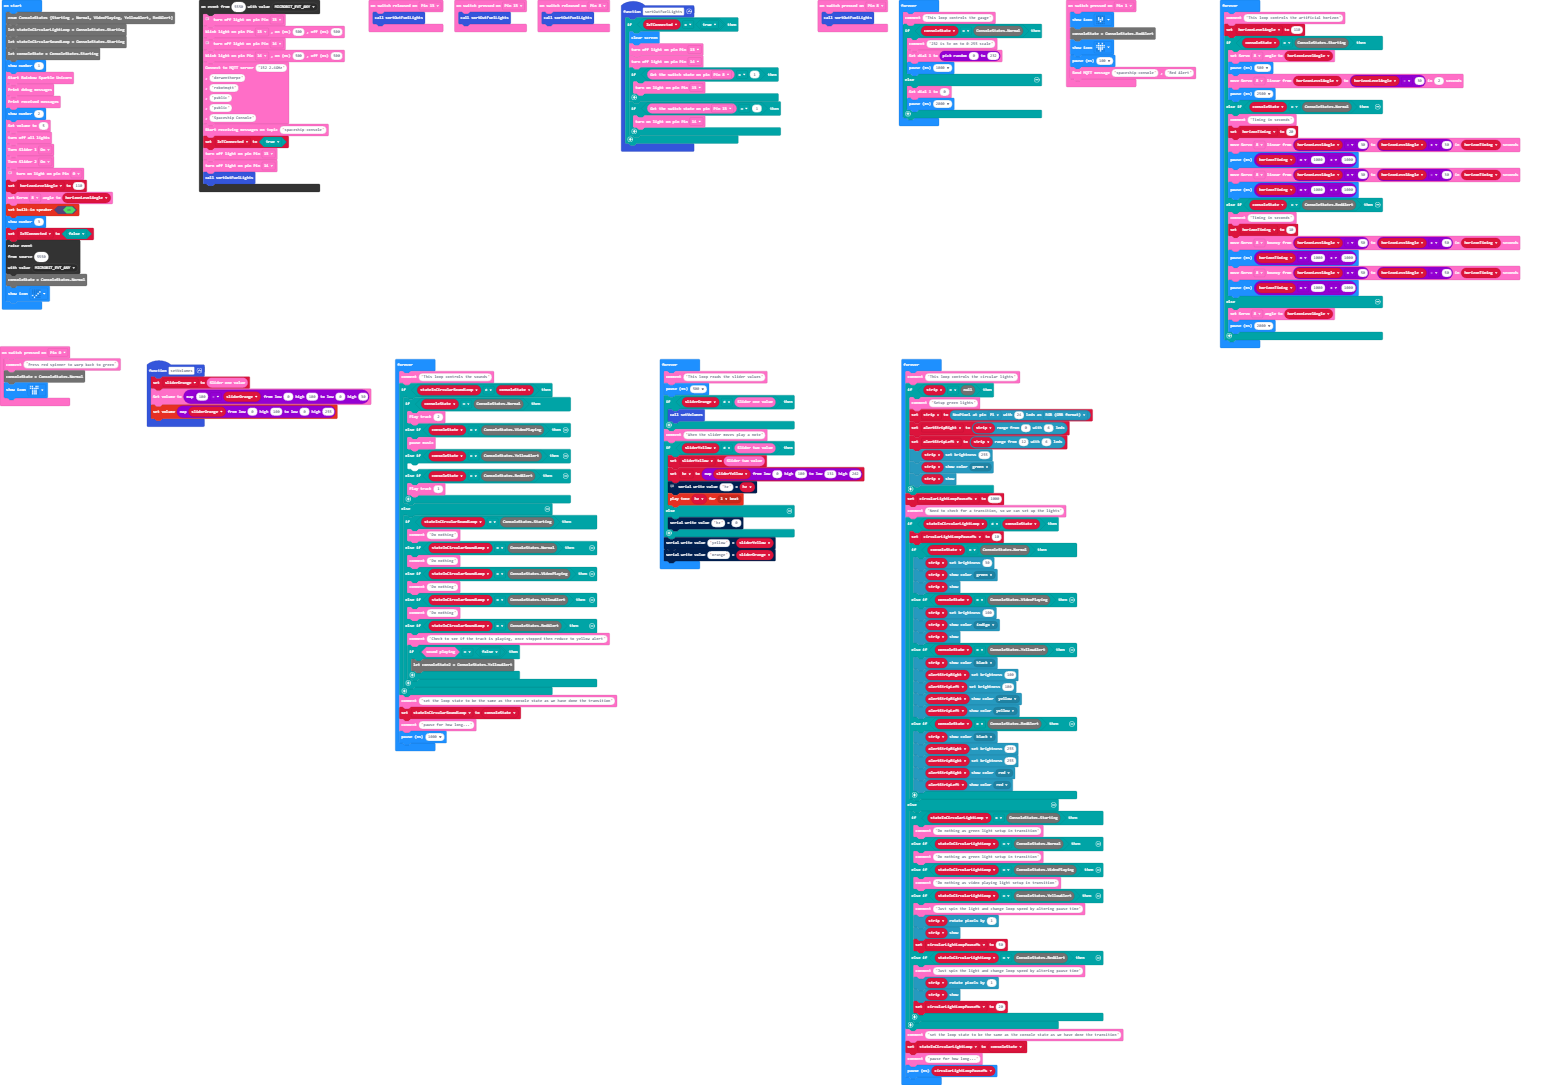
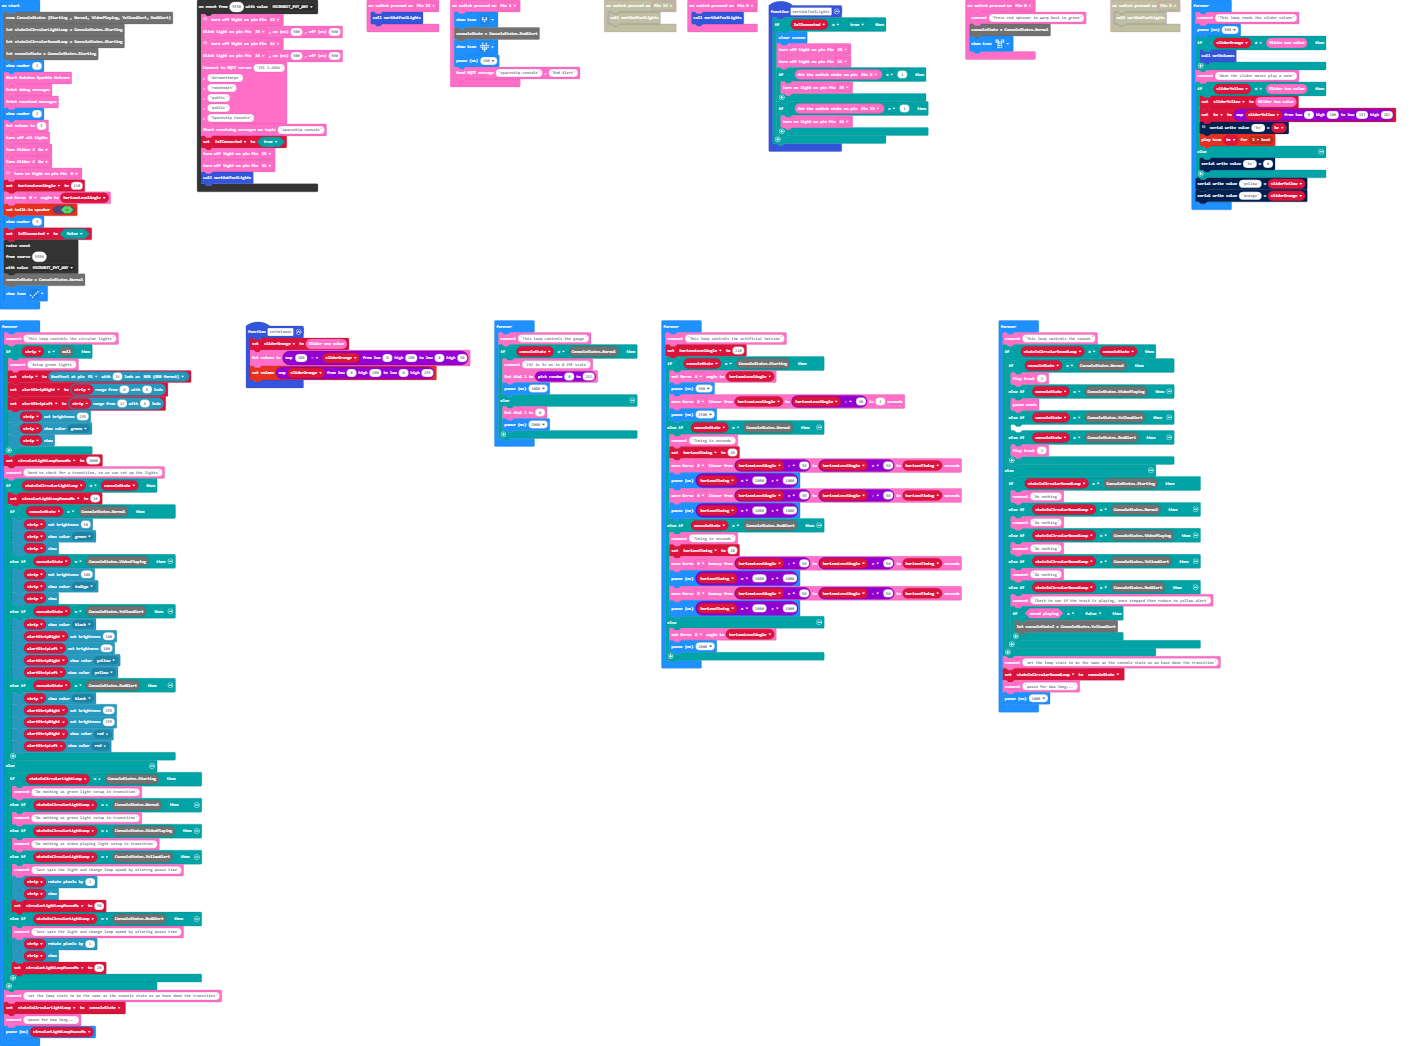
Update pxt.json, main.blocks, main.ts

diff --git a/main.ts b/main.ts
@@ -24,9 +24,6 @@ control.onEvent(5550, EventBusValue.MICROBIT_EVT_ANY, function () {
     RainbowSparkleUnicorn.Light.turnOff(lightPins.P14)
     sortOutFuelLights()
 })
-RainbowSparkleUnicorn.Switch.onSwitchPressed(switchPins.P13, function () {
-    sortOutFuelLights()
-})
 RainbowSparkleUnicorn.Switch.onSwitchPressed(switchPins.P1, function () {
     basic.showIcon(IconNames.SmallHeart)
     consoleState = ConsoleStates.RedAlert
@@ -35,9 +32,6 @@ basic.showIcon(IconNames.Heart)
     RainbowSparkleUnicorn.IoT.sendMQTTMessage("spaceship-console", "Red Alert")
 })
 RainbowSparkleUnicorn.Switch.onSwitchPressed(switchPins.P13, function () {
-    sortOutFuelLights()
-})
-RainbowSparkleUnicorn.Switch.onSwitchPressed(switchPins.P8, function () {
     sortOutFuelLights()
 })
 function sortOutFuelLights () {
@@ -61,13 +55,13 @@ basic.showIcon(IconNames.TShirt)
 RainbowSparkleUnicorn.Switch.onSwitchPressed(switchPins.P8, function () {
     sortOutFuelLights()
 })
+let horizonTiming = 0
 let circularLightLoopPauseMs = 0
 let alertStripLeft: neopixel.Strip = null
 let alertStripRight: neopixel.Strip = null
 let strip: neopixel.Strip = null
 let hz = 0
 let sliderYellow = 0
-let horizonTiming = 0
 let sliderOrange = 0
 let IoTConnected = false
 enum ConsoleStates {Starting , Normal, VideoPlaying, YellowAlert, RedAlert}
@@ -96,77 +90,6 @@ EventBusValue.MICROBIT_EVT_ANY
 )
 consoleState = ConsoleStates.Normal
 basic.showIcon(IconNames.Yes)
-basic.forever(function () {
-    RainbowSparkleUnicorn.comment("This loop controls the gauge")
-    if (consoleState == ConsoleStates.Normal) {
-        RainbowSparkleUnicorn.comment("232 is 3v on to 0-255 scale")
-        RainbowSparkleUnicorn.Controls.dial1(randint(0, 232))
-        basic.pause(1000)
-    } else {
-        RainbowSparkleUnicorn.Controls.dial1(0)
-        basic.pause(2000)
-    }
-})
-basic.forever(function () {
-    RainbowSparkleUnicorn.comment("This loop controls the artificial horizon")
-    horizonLevelAngle = 110
-    if (consoleState == ConsoleStates.Starting) {
-        RainbowSparkleUnicorn.Movement.setServoAngle(Servo.P8, horizonLevelAngle)
-        basic.pause(500)
-        RainbowSparkleUnicorn.Movement.moveServoLinear(Servo.P8, horizonLevelAngle, horizonLevelAngle - 30, 2)
-        basic.pause(2500)
-    } else if (consoleState == ConsoleStates.Normal) {
-        RainbowSparkleUnicorn.comment("Timing in seconds")
-        horizonTiming = 20
-        RainbowSparkleUnicorn.Movement.moveServoLinear(Servo.P8, horizonLevelAngle - 30, horizonLevelAngle + 30, horizonTiming)
-        basic.pause(horizonTiming * 1000 + 1000)
-        RainbowSparkleUnicorn.Movement.moveServoLinear(Servo.P8, horizonLevelAngle + 30, horizonLevelAngle - 30, horizonTiming)
-        basic.pause(horizonTiming * 1000 + 1000)
-    } else if (consoleState == ConsoleStates.RedAlert) {
-        RainbowSparkleUnicorn.comment("Timing in seconds")
-        horizonTiming = 10
-        RainbowSparkleUnicorn.Movement.moveServoBouncy(Servo.P8, horizonLevelAngle - 50, horizonLevelAngle + 50, horizonTiming)
-        basic.pause(horizonTiming * 1000 + 1000)
-        RainbowSparkleUnicorn.Movement.moveServoBouncy(Servo.P8, horizonLevelAngle + 50, horizonLevelAngle - 50, horizonTiming)
-        basic.pause(horizonTiming * 1000 + 1000)
-    } else {
-        RainbowSparkleUnicorn.Movement.setServoAngle(Servo.P8, horizonLevelAngle)
-        basic.pause(2000)
-    }
-})
-basic.forever(function () {
-    RainbowSparkleUnicorn.comment("This loop controls the sounds")
-    if (stateInCircularSoundLoop != consoleState) {
-        if (consoleState == ConsoleStates.Normal) {
-            RainbowSparkleUnicorn.Sound.playTrack(2)
-        } else if (consoleState == ConsoleStates.VideoPlaying) {
-            RainbowSparkleUnicorn.Sound.pause()
-        } else if (consoleState == ConsoleStates.YellowAlert) {
-        	
-        } else if (consoleState == ConsoleStates.RedAlert) {
-            RainbowSparkleUnicorn.Sound.playTrack(1)
-        }
-    } else {
-        if (stateInCircularSoundLoop == ConsoleStates.Starting) {
-            RainbowSparkleUnicorn.comment("Do nothing")
-        } else if (stateInCircularSoundLoop == ConsoleStates.Normal) {
-            RainbowSparkleUnicorn.comment("Do nothing")
-        } else if (stateInCircularSoundLoop == ConsoleStates.VideoPlaying) {
-            RainbowSparkleUnicorn.comment("Do nothing")
-        } else if (stateInCircularSoundLoop == ConsoleStates.YellowAlert) {
-            RainbowSparkleUnicorn.comment("Do nothing")
-        } else if (stateInCircularSoundLoop == ConsoleStates.RedAlert) {
-            RainbowSparkleUnicorn.comment("Check to see if the track is playing, once stopped then reduce to yellow alert")
-            if (RainbowSparkleUnicorn.Sound.playingSound() == false) {
-                let consoleState2 = ConsoleStates.YellowAlert
-            }
-        }
-    }
-    RainbowSparkleUnicorn.comment("set the loop state to be the same as the console state as we have done the transition")
-    stateInCircularSoundLoop = consoleState
-    RainbowSparkleUnicorn.comment("pause for how long...")
-    basic.pause(1000)
-})
 basic.forever(function () {
     RainbowSparkleUnicorn.comment("This loop reads the slider values")
     basic.pause(500)
@@ -246,4 +169,75 @@ basic.forever(function () {
     stateInCircularLightLoop = consoleState
     RainbowSparkleUnicorn.comment("pause for how long...")
     basic.pause(circularLightLoopPauseMs)
+})
+basic.forever(function () {
+    RainbowSparkleUnicorn.comment("This loop controls the gauge")
+    if (consoleState == ConsoleStates.Normal) {
+        RainbowSparkleUnicorn.comment("232 is 3v on to 0-255 scale")
+        RainbowSparkleUnicorn.Controls.dial1(randint(0, 232))
+        basic.pause(1000)
+    } else {
+        RainbowSparkleUnicorn.Controls.dial1(0)
+        basic.pause(2000)
+    }
+})
+basic.forever(function () {
+    RainbowSparkleUnicorn.comment("This loop controls the artificial horizon")
+    horizonLevelAngle = 110
+    if (consoleState == ConsoleStates.Starting) {
+        RainbowSparkleUnicorn.Movement.setServoAngle(Servo.P8, horizonLevelAngle)
+        basic.pause(500)
+        RainbowSparkleUnicorn.Movement.moveServoLinear(Servo.P8, horizonLevelAngle, horizonLevelAngle - 30, 2)
+        basic.pause(2500)
+    } else if (consoleState == ConsoleStates.Normal) {
+        RainbowSparkleUnicorn.comment("Timing in seconds")
+        horizonTiming = 20
+        RainbowSparkleUnicorn.Movement.moveServoLinear(Servo.P8, horizonLevelAngle - 30, horizonLevelAngle + 30, horizonTiming)
+        basic.pause(horizonTiming * 1000 + 1000)
+        RainbowSparkleUnicorn.Movement.moveServoLinear(Servo.P8, horizonLevelAngle + 30, horizonLevelAngle - 30, horizonTiming)
+        basic.pause(horizonTiming * 1000 + 1000)
+    } else if (consoleState == ConsoleStates.RedAlert) {
+        RainbowSparkleUnicorn.comment("Timing in seconds")
+        horizonTiming = 10
+        RainbowSparkleUnicorn.Movement.moveServoBouncy(Servo.P8, horizonLevelAngle - 50, horizonLevelAngle + 50, horizonTiming)
+        basic.pause(horizonTiming * 1000 + 1000)
+        RainbowSparkleUnicorn.Movement.moveServoBouncy(Servo.P8, horizonLevelAngle + 50, horizonLevelAngle - 50, horizonTiming)
+        basic.pause(horizonTiming * 1000 + 1000)
+    } else {
+        RainbowSparkleUnicorn.Movement.setServoAngle(Servo.P8, horizonLevelAngle)
+        basic.pause(2000)
+    }
+})
+basic.forever(function () {
+    RainbowSparkleUnicorn.comment("This loop controls the sounds")
+    if (stateInCircularSoundLoop != consoleState) {
+        if (consoleState == ConsoleStates.Normal) {
+            RainbowSparkleUnicorn.Sound.playTrack(2)
+        } else if (consoleState == ConsoleStates.VideoPlaying) {
+            RainbowSparkleUnicorn.Sound.pause()
+        } else if (consoleState == ConsoleStates.YellowAlert) {
+        	
+        } else if (consoleState == ConsoleStates.RedAlert) {
+            RainbowSparkleUnicorn.Sound.playTrack(1)
+        }
+    } else {
+        if (stateInCircularSoundLoop == ConsoleStates.Starting) {
+            RainbowSparkleUnicorn.comment("Do nothing")
+        } else if (stateInCircularSoundLoop == ConsoleStates.Normal) {
+            RainbowSparkleUnicorn.comment("Do nothing")
+        } else if (stateInCircularSoundLoop == ConsoleStates.VideoPlaying) {
+            RainbowSparkleUnicorn.comment("Do nothing")
+        } else if (stateInCircularSoundLoop == ConsoleStates.YellowAlert) {
+            RainbowSparkleUnicorn.comment("Do nothing")
+        } else if (stateInCircularSoundLoop == ConsoleStates.RedAlert) {
+            RainbowSparkleUnicorn.comment("Check to see if the track is playing, once stopped then reduce to yellow alert")
+            if (RainbowSparkleUnicorn.Sound.playingSound() == false) {
+                let consoleState2 = ConsoleStates.YellowAlert
+            }
+        }
+    }
+    RainbowSparkleUnicorn.comment("set the loop state to be the same as the console state as we have done the transition")
+    stateInCircularSoundLoop = consoleState
+    RainbowSparkleUnicorn.comment("pause for how long...")
+    basic.pause(1000)
 })
